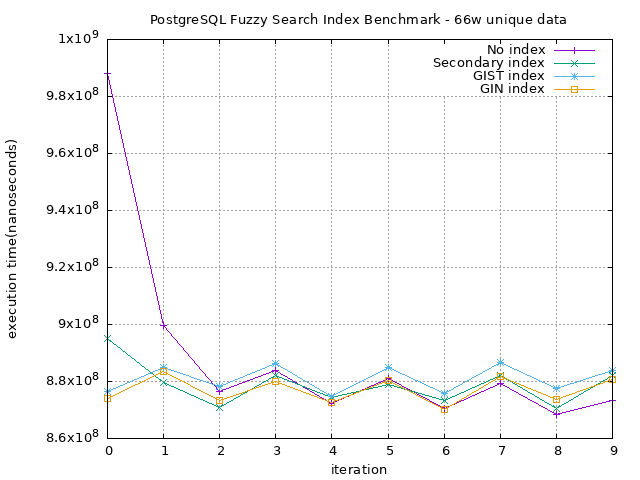
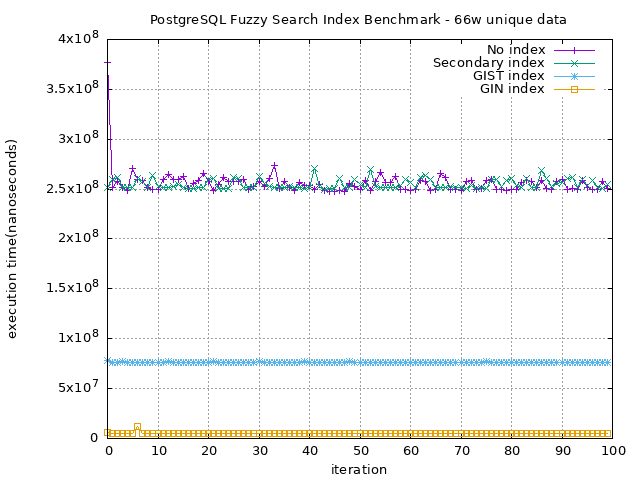
Fix sequential scan issue

diff --git a/postgresql-gist-gin/benchmark/unique/benchmark-unique.ts b/postgresql-gist-gin/benchmark/unique/benchmark-unique.ts
@@ -3,7 +3,7 @@ import * as fs from "fs";
 import * as path from "path";
 import { fileURLToPath } from "url";
 
-const ITERATION = 10;
+const ITERATION = 100;
 
 const tons = (timestamp: number[]): number => {
   return timestamp[0] * 1e9 + timestamp[1];
@@ -13,7 +13,7 @@ const findName = async (conn: PrismaClient, field: string, name: string) => {
   return await conn.$queryRawUnsafe(`--sql
         select id
         from "unique"
-        where similarity(${field}, '${name}') > 0
+        where ${field} % '${name}'
     `);
 };
 

diff --git a/postgresql-gist-gin/benchmark/unique-large/benchmark-unique-large.ts b/postgresql-gist-gin/benchmark/unique-large/benchmark-unique-large.ts
@@ -3,7 +3,7 @@ import * as fs from "fs";
 import * as path from "path";
 import { fileURLToPath } from "url";
 
-const ITERATION = 10;
+const ITERATION = 100;
 
 const tons = (timestamp: number[]): number => {
   return timestamp[0] * 1e9 + timestamp[1];
@@ -13,7 +13,7 @@ const findName = async (conn: PrismaClient, field: string, name: string) => {
   return await conn.$queryRawUnsafe(`--sql
         select id
         from unique2
-        where similarity(${field}, '${name}') > 0
+        where ${field} % '${name}'
     `);
 };
 

diff --git a/postgresql-gist-gin/README.md b/postgresql-gist-gin/README.md
@@ -4,15 +4,13 @@ This project aims to benchmark the difference between GIST and GIN index in post
 ## Benchmark Result
 ### 10w Rows of Unique Data
 ![](./benchmark/unique/benchmark-unique.png)
-![](./benchmark/unique/benchmark-unique2.png)
 
 ### 66w Rows of Unique Data
 ![](./benchmark/unique-large/benchmark-unique-large.png)
-![](./benchmark/unique-large/benchmark-unique-large2.png)
 
 ## Run
 ```shell
-$ docker run -d --name gist-gin-benchmark \
+$ taskset 0x2 docker run -d --name gist-gin-benchmark \
     -p 5555:5432 \
     -e POSTGRES_USER=admin \
     -e POSTGRES_PASSWORD=admin \
@@ -26,11 +24,9 @@ $ npx prisma migrate dev
 
 ## Benchmark
 ```shell
-$ taskset 0x1 npm run benchmark-unique
-$ gnuplot ./benchmark/unique/unique.gp
+$ make benchmark-unique
 
-$ taskset 0x1 npm run benchmark-unique-large
-$ gnuplot ./benchmark/unique/unique-large.gp
+$ make benchmark-unique-large
 ```
 
 ## License
